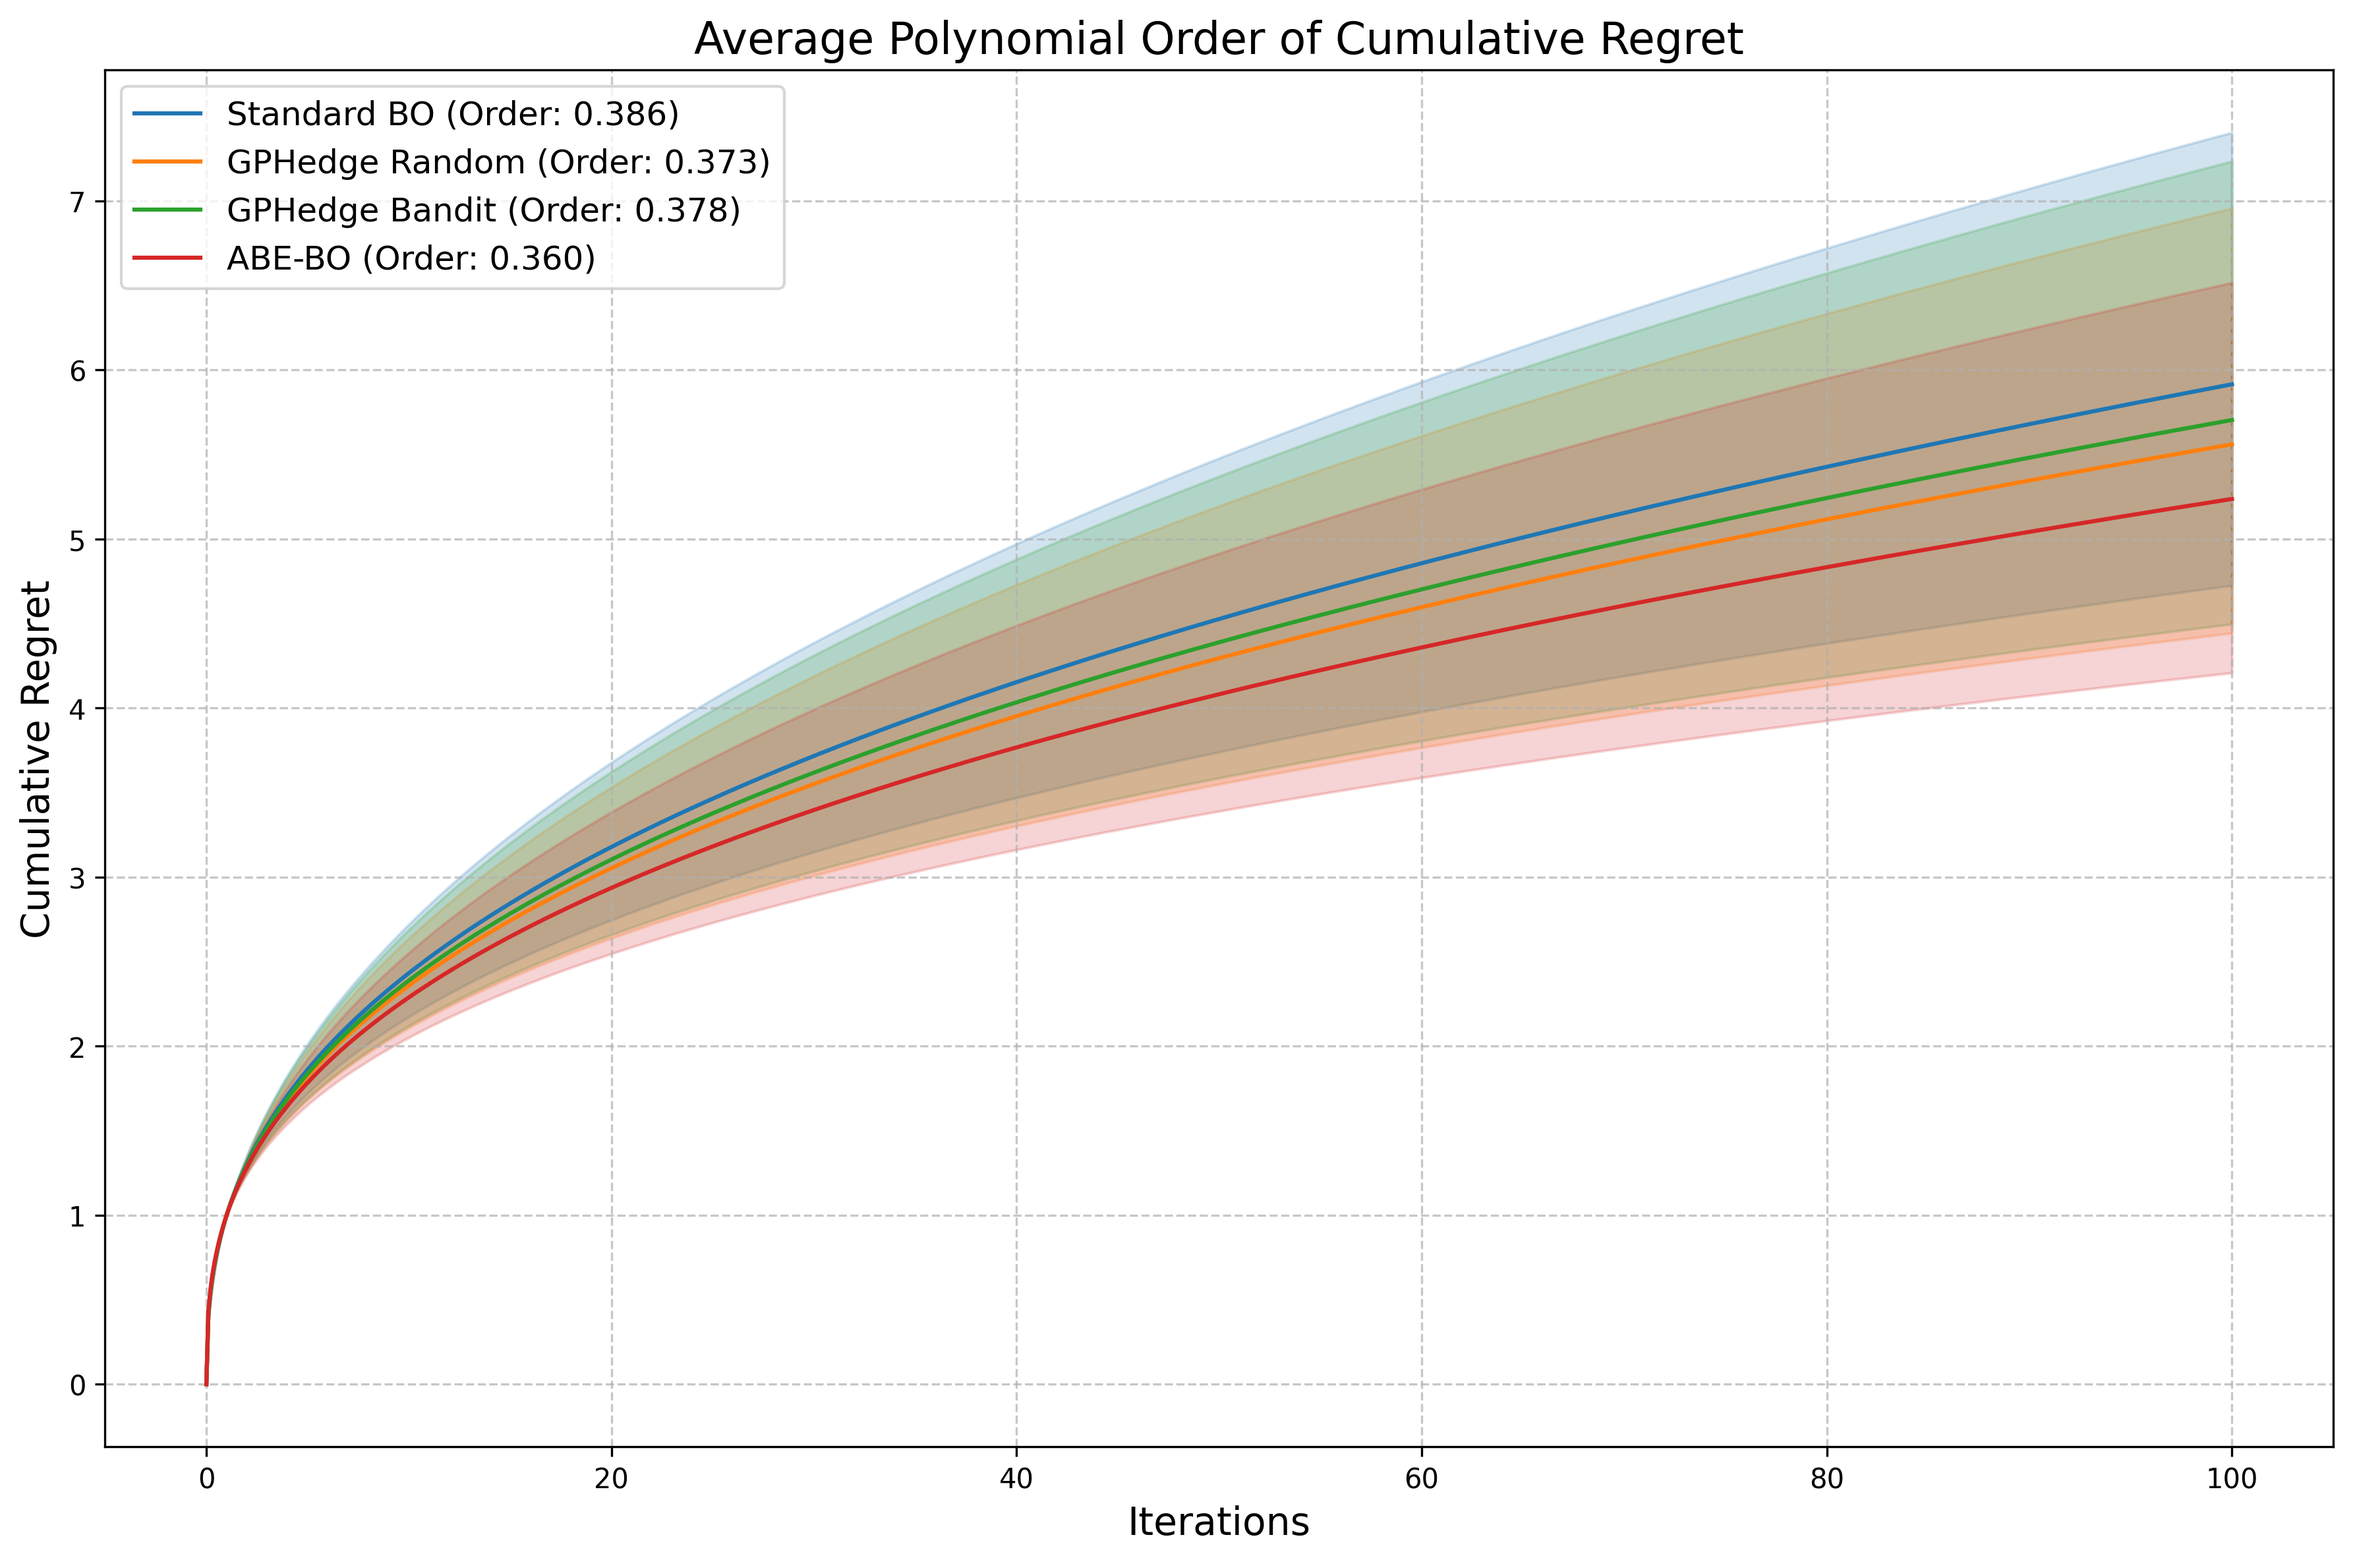
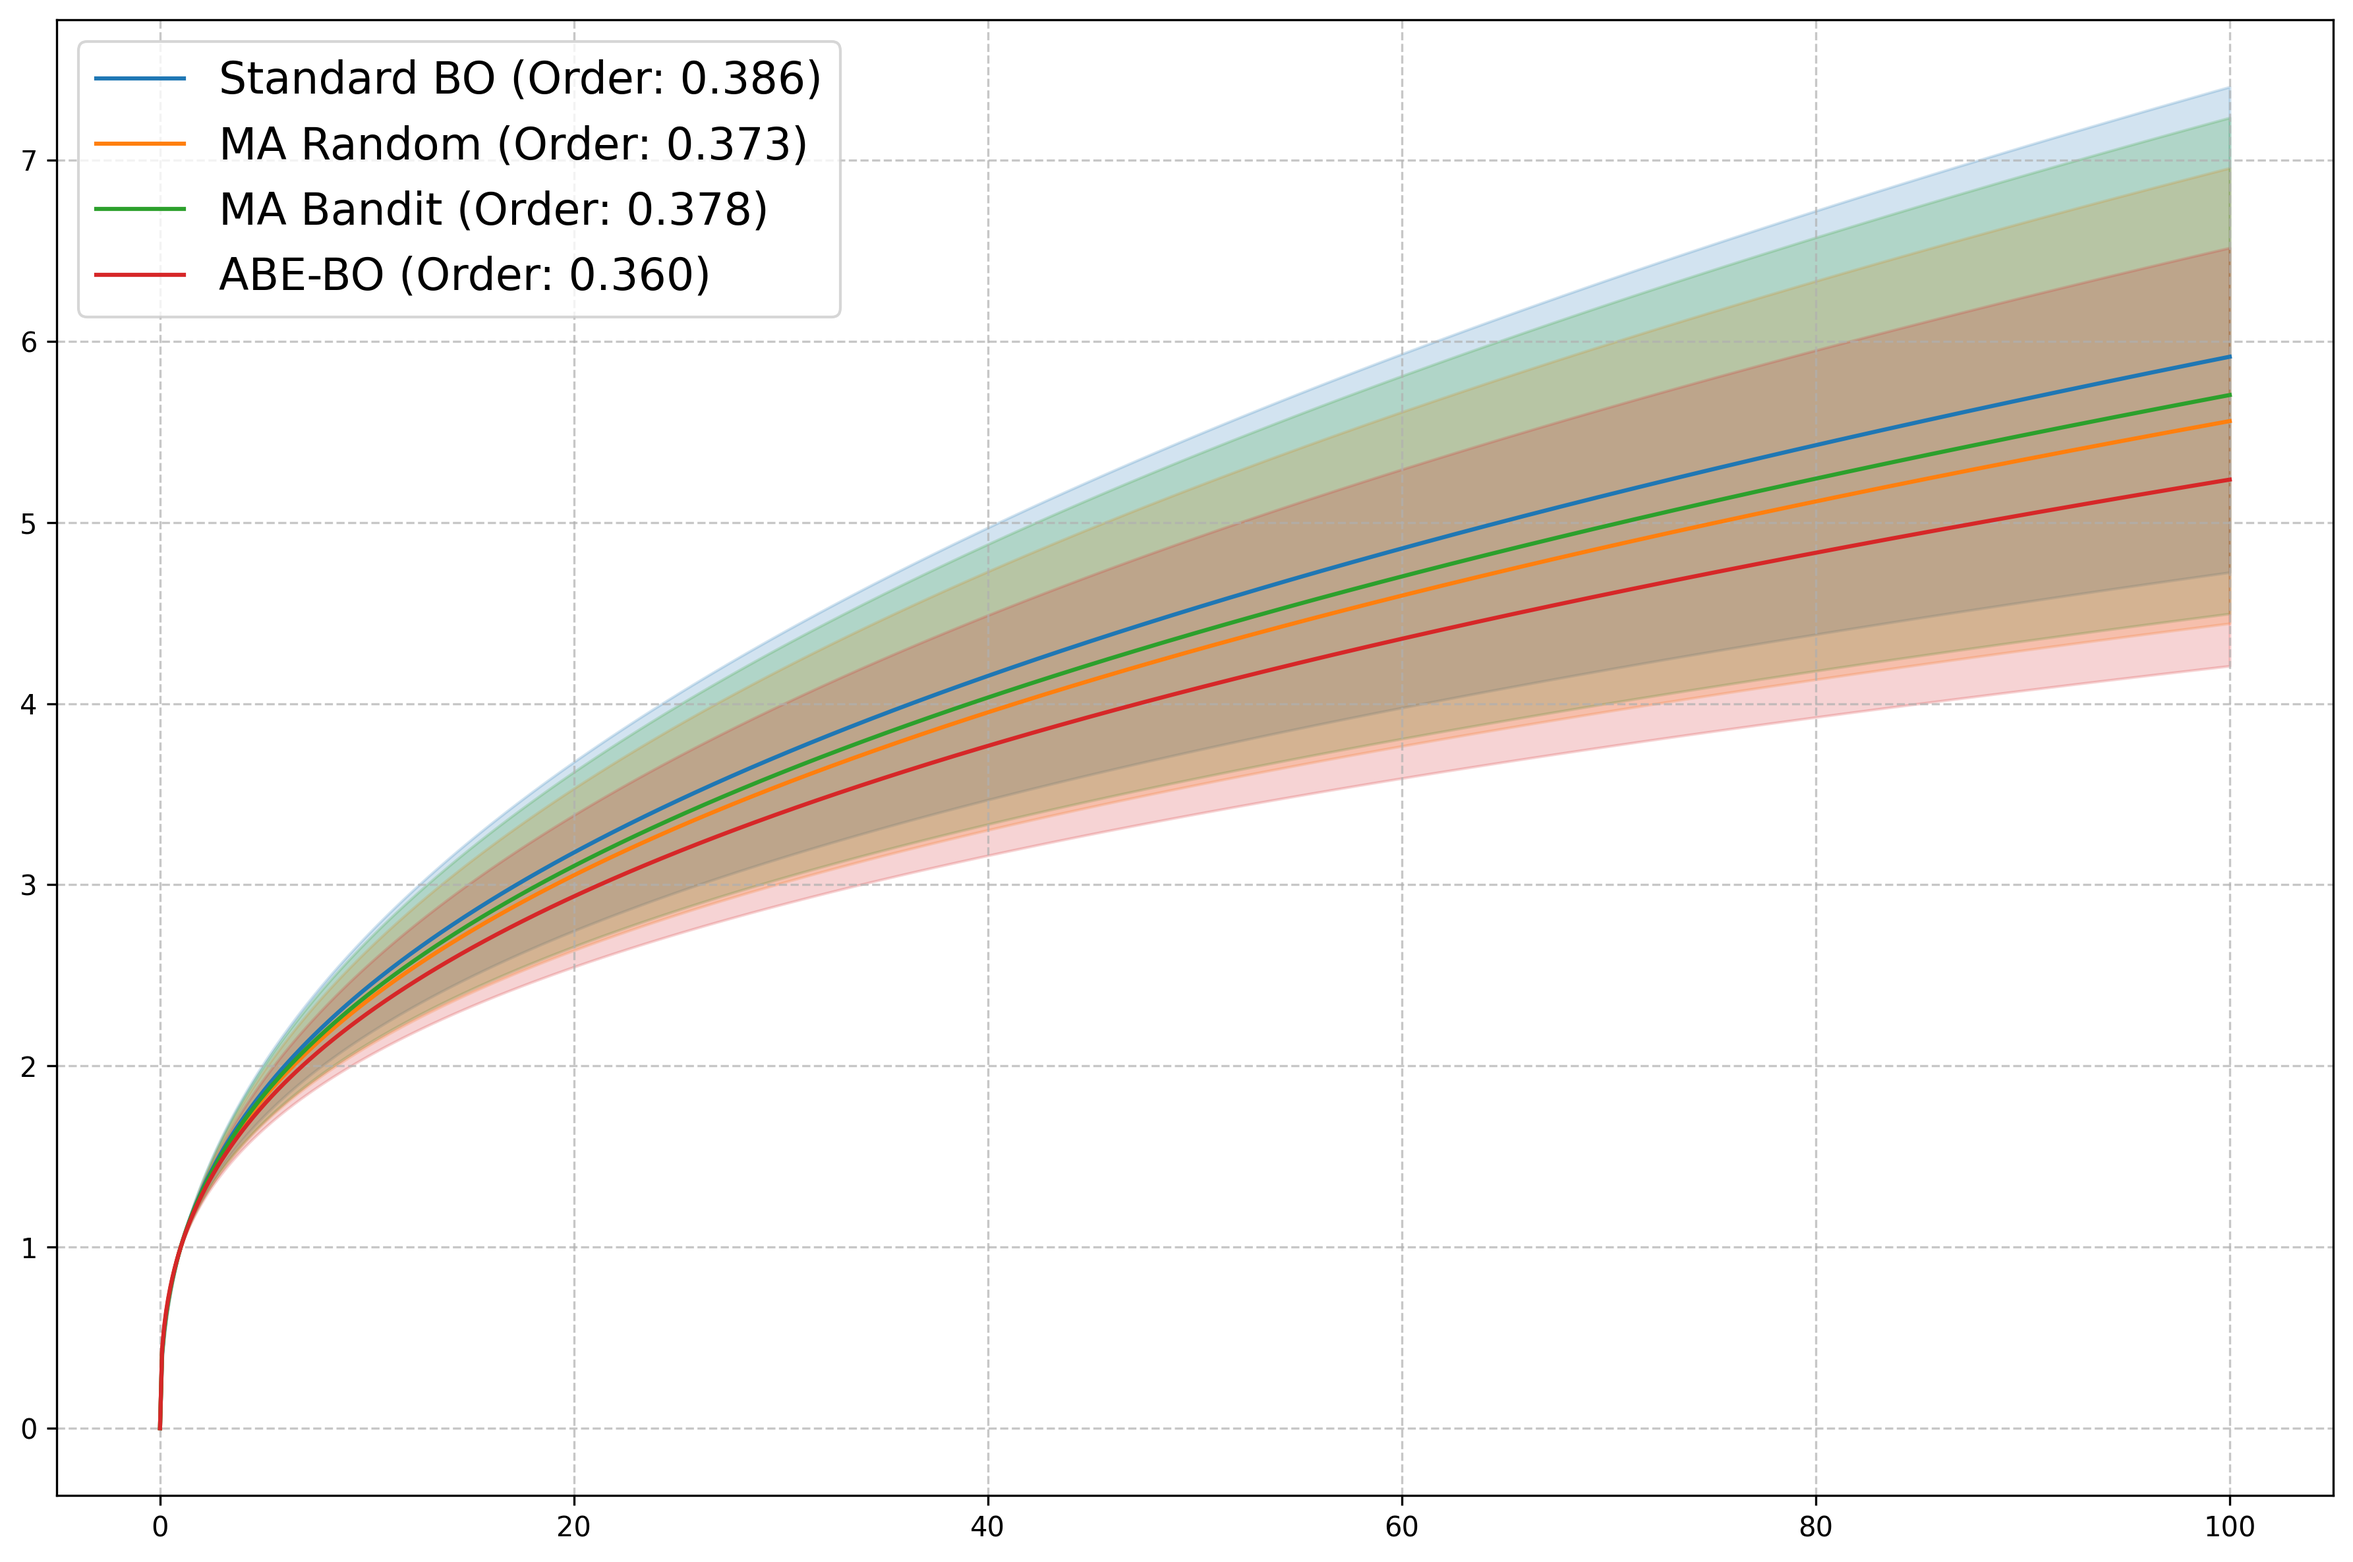
corrected posterior

diff --git a/Results_abe/polynomial.py b/Results_abe/polynomial.py
@@ -1,0 +1,116 @@
+import numpy as np
+import matplotlib.pyplot as plt
+import os
+from scipy.optimize import curve_fit
+import scipy.stats as stats
+
+def process_file(file_path):
+    try:
+        data = np.load(file_path, allow_pickle=True)
+        cumulative_regrets = [experiment[3] for experiment in data]  # Index 3 for cumulative regret
+        return cumulative_regrets
+    except Exception as e:
+        print(f"Error processing {file_path}: {str(e)}")
+        return []
+
+def power_law(x, a, b):
+    return a * np.power(x, b)
+
+def fit_sublinearity(x, y):
+    popt, _ = curve_fit(power_law, x, y)
+    return popt[1]  # Return the exponent
+
+def analyze_regret(regrets):
+    sublinearity_orders = []
+    for regret in regrets:
+        x = np.arange(1, len(regret) + 1)
+        sublinearity_order = fit_sublinearity(x, regret)
+        sublinearity_orders.append(sublinearity_order)
+
+    mean_sublinearity = np.mean(sublinearity_orders)
+    std_error = stats.sem(sublinearity_orders)
+
+    return mean_sublinearity, std_error
+
+def plot_average_polynomial_order(results, custom_names=None):
+    methods = ['base', 'GPHedge_random', 'GPHedge_bandit', 'GPHedge_abe_least_risk']
+    default_labels = ['Standard BO', 'GPHedge Random', 'GPHedge Bandit', 'ABE-BO']
+    
+    # Use custom names if provided, otherwise use default labels
+    method_labels = custom_names if custom_names else default_labels
+    
+    colors = ['#1f77b4', '#ff7f0e', '#2ca02c', '#d62728']  # Blue, Orange, Green, Red
+
+    plt.figure(figsize=(12, 8))
+
+    x = np.linspace(0, 100, 1000)  # Arbitrary x-axis values
+
+    for method, label, color in zip(methods, method_labels, colors):
+        orders = [result[method]['mean'] for result in results.values()]
+        mean_order = np.mean(orders)
+        std_error = np.std(orders) / np.sqrt(len(orders))
+
+        y_mean = x**mean_order
+        y_lower = x**(mean_order - std_error)
+        y_upper = x**(mean_order + std_error)
+
+        plt.plot(x, y_mean, label=f'{label} (Order: {mean_order:.3f})', color=color)
+        plt.fill_between(x, y_lower, y_upper, alpha=0.2, color=color)
+
+    plt.legend(fontsize=16)
+    plt.grid(True, linestyle='--', alpha=0.7)
+    
+    plt.tight_layout()
+    plt.savefig("average_polynomial_order.png", dpi=300, bbox_inches='tight')
+    plt.close()
+def process_files():
+    methods = ['base', 'GPHedge_random', 'GPHedge_bandit', 'GPHedge_abe_least_risk']
+    results = {}
+    
+    # Print current working directory
+    print(f"Current working directory: {os.getcwd()}")
+    
+    # Use absolute path
+    directory = '/Users/anand/Desktop/SBU/ICASSP2025/Results_abe/NPY_files'
+    print(f"Looking for files in: {directory}")
+    
+    # Check if directory exists
+    if not os.path.exists(directory):
+        print(f"Directory does not exist: {directory}")
+        return
+    
+    # List all files in the directory
+    all_files = os.listdir(directory)
+    print(f"All files in directory: {all_files}")
+    
+    # Filter for .npy files
+    npy_files = [f for f in all_files if f.endswith('.npy')]
+    print(f"NPY files found: {npy_files}")
+    
+    for file in npy_files:
+        file_path = os.path.join(directory, file)
+        print(f"Processing file: {file_path}")
+        
+        function_name = file.split('_')[0]
+        method = '_'.join(file.split('_')[1:]).replace('.npy', '')
+        
+        if method in methods:
+            if function_name not in results:
+                results[function_name] = {m: {'mean': 0, 'sem': 0} for m in methods}
+            
+            regrets = process_file(file_path)
+            if regrets:
+                mean_sublinearity, std_error = analyze_regret(regrets)
+                results[function_name][method]['mean'] = mean_sublinearity
+                results[function_name][method]['sem'] = std_error
+    
+    if results:
+        custom_names = ['Standard BO', 'MA Random', 'MA Bandit', 'ABE-BO']
+        plot_average_polynomial_order(results, custom_names)
+    else:
+        print("No results to plot. Check if any valid files were processed.")
+
+
+if __name__ == "__main__":
+    process_files()
+    print("Analysis complete. Average polynomial order plot has been generated.")

diff --git a/ABEBO_NW.py b/ABEBO_NW.py
@@ -42,26 +42,26 @@ class ABEBO:
         self.use_least_risk = use_least_risk
 
         self.d = len(acquisition_functions)
-        self.r0 = 0.5 * torch.ones(self.d, dtype=self.dtype, device=self.device)
-        self.T0 = 0.25 * torch.eye(self.d, dtype=self.dtype, device=self.device)
-        self.kappa0 = 1.0
-        self.nu0 = self.d
+        self.r = 0.5 * torch.ones(self.d, dtype=self.dtype, device=self.device)
+        self.T = 0.25 * torch.eye(self.d, dtype=self.dtype, device=self.device)
+        self.kappa = 1.0
+        self.nu = self.d
 
-    def student_t_posterior(self, losses):
-        m = len(losses)
-        losses_mean = torch.mean(losses)
+    def student_t_posterior(self, new_loss):
+        # self.kappa += 1
+        self.nu += 1
+        kappa_t_1 = self.kappa
+        kappa_t = self.kappa + 1
+        self.r = (kappa_t_1 * self.r + new_loss) / kappa_t
         
-        kappa_m = self.kappa0 + m
-        nu_m = self.nu0 + m
+        diff = new_loss - self.r
+        self.T += torch.outer(diff, diff) * (kappa_t_1 / kappa_t)
         
-        r_m = (self.kappa0 * self.r0 + m * losses_mean) / kappa_m
-        
-        S = torch.cov(losses.T) if m > 1 else torch.var(losses).unsqueeze(0).unsqueeze(0)
-        T_m = self.T0 + m * S + (self.kappa0 * m / kappa_m) * torch.outer(losses_mean - self.r0, losses_mean - self.r0)
-        
-        dof = float(nu_m - self.d + 1)  # Convert to scalar
-        loc = r_m
-        scale = T_m / (kappa_m * dof)
+        dof = float(self.nu - self.d + 1) 
+        loc = self.r
+        scale = self.T / (self.kappa * dof)
+
+        self.kappa = kappa_t
         
         return dof, loc, scale
 
@@ -113,7 +113,6 @@ class ABEBO:
         loc_np = loc.cpu().detach().numpy()
         scale_np = scale.cpu().detach().numpy()
         
-        # Generate samples from the multivariate t-distribution
         risk_samples = multivariate_t.rvs(df=dof, loc=loc_np, shape=scale_np, size=n_samples)
         risk_samples = torch.tensor(risk_samples, dtype=self.dtype, device=self.device)
         
@@ -259,7 +258,11 @@ def bayesian_optimization(args):
         gap_metrics.append(gap_metric(best_init_y, best_train_Y, true_max))
         simple_regrets.append(true_max - best_train_Y)
         cumulative_regrets.append(cumulative_regrets[-1] + (true_max - best_train_Y))
-        chosen_acq_functions.append(args.acquisition[chosen_acq_index] if not args.use_abe else 'ABE')
+        chosen_acq_functions.append(
+            args.acquisition[chosen_acq_index] if args.use_abe and args.use_least_risk else
+            'ABE' if args.use_abe else
+            args.acquisition[chosen_acq_index]
+        )
         kernel_names.append(args.kernel)
 
         posterior_mean = model.posterior(new_candidates_normalized).mean
@@ -314,13 +317,13 @@ if __name__ == "__main__":
 
     # Convert to numpy array and save
     all_results_np = np.array(all_results, dtype=object)
-    os.makedirs(f"./Results_abe_25", exist_ok=True)
+    os.makedirs(f"./Results_abe_test", exist_ok=True)
     
     if args.use_abe:
         filename = f"GPHedge_abe{'_least_risk' if args.use_least_risk else ''}.npy"
     else:
         filename = f"GPHedge_{args.acq_weight}.npy"
     
-    np.save(f"./Results_abe_25/{args.function}_{filename}", all_results_np)
+    np.save(f"./Results_abe_test/{args.function}_{filename}", all_results_np)
 
-    print(f"Results saved to ./Results_abe_25/{args.function}_{filename}")
+    print(f"Results saved to ./Results_abe_test/{args.function}_{filename}")
